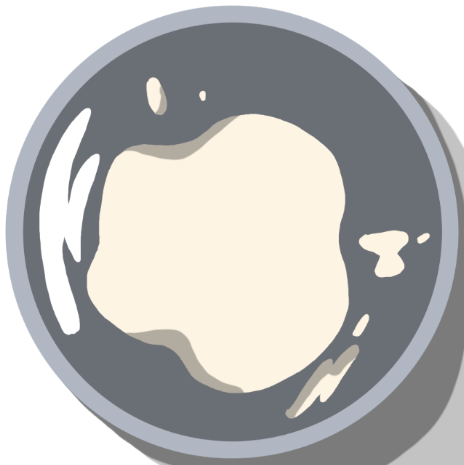
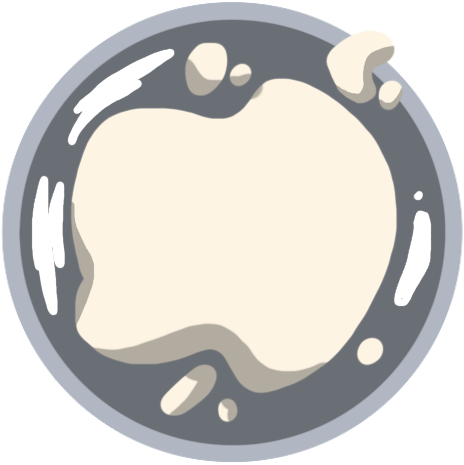
made the mixing scene look. better

diff --git a/src/scenes/TaskTwo.js b/src/scenes/TaskTwo.js
@@ -3,31 +3,36 @@ class TaskTwo extends Phaser.Scene {
       super("TaskTwo");
     }
     preload(){
-      this.load.image('batter', './assets/batter.png');
+      this.load.image('milk', './assets/milk.png');
       this.load.image('mixing_bowl', './assets/mixing_bowl.png');
+      this.load.image('mixing_table', './assets/mixing_table.png');
+      this.load.image('flour', './assets/flour.png');
+      this.load.image('eggs', './assets/eggs.png');
     }
 
     create() {
       //let current_scene = this;
-      this.add.text(20, 20, "Press space to mix the batter! Esc to go back!");
-      this.mixing_bowl = this.add.sprite(540, 350,'mixing_bowl').setOrigin(.5, .5).setInteractive();
-      this.batter = this.add.sprite(100, 200,'batter').setOrigin(.5, .5).setInteractive();
-      this.batter2 = this.add.sprite(150, 200,'batter').setOrigin(.5, .5).setInteractive();
-      this.batter3 = this.add.sprite(100, 250,'batter').setOrigin(.5, .5).setInteractive();
+      this.table = this.add.sprite(0, 0, 'mixing_table').setOrigin(0, 0).setInteractive();
+      this.add.text(20, 20, "Drag ingredients into the bowl! Press space to mix the batter! Esc to go back!");
+      this.mixing_bowl = this.add.sprite(700, 350,'mixing_bowl').setOrigin(.5, .5).setInteractive();
+      this.milk = this.add.sprite(250, 400,'milk').setOrigin(.5, .5).setInteractive();
+      this.eggs = this.add.sprite(300, 200,'eggs').setOrigin(.5, .5).setInteractive();
+      this.flour = this.add.sprite(100, 250,'flour').setOrigin(.5, .5).setInteractive();
+      
       
       let yoinked = null;
   
-      //batter
-      this.batter.on('pointerdown', function() {
-        yoinked = this.batter;
+      //milk
+      this.milk.on('pointerdown', function() {
+        yoinked = this.milk;
       }, this);
-      //batter2
-      this.batter2.on('pointerdown', function() {
-        yoinked = this.batter2;
+      //eggs
+      this.eggs.on('pointerdown', function() {
+        yoinked = this.eggs;
       }, this);
-      //batter3
-      this.batter3.on('pointerdown', function() {
-        yoinked = this.batter3;
+      //flour
+      this.flour.on('pointerdown', function() {
+        yoinked = this.flour;
       }, this);
 
       this.input.on('pointerup', function() {
@@ -48,8 +53,8 @@ class TaskTwo extends Phaser.Scene {
 
     update() {
       //collision checking
-      if(this.collisioncheck(this.batter, this.mixing_bowl) || this.collisioncheck(this.batter2, this.mixing_bowl) 
-            || this.collisioncheck(this.batter3, this.mixing_bowl)) {
+      if(this.collisioncheck(this.milk, this.mixing_bowl) || this.collisioncheck(this.eggs, this.mixing_bowl) 
+            || this.collisioncheck(this.flour, this.mixing_bowl)) {
         console.log('ingredient in bowl');
       }
 
